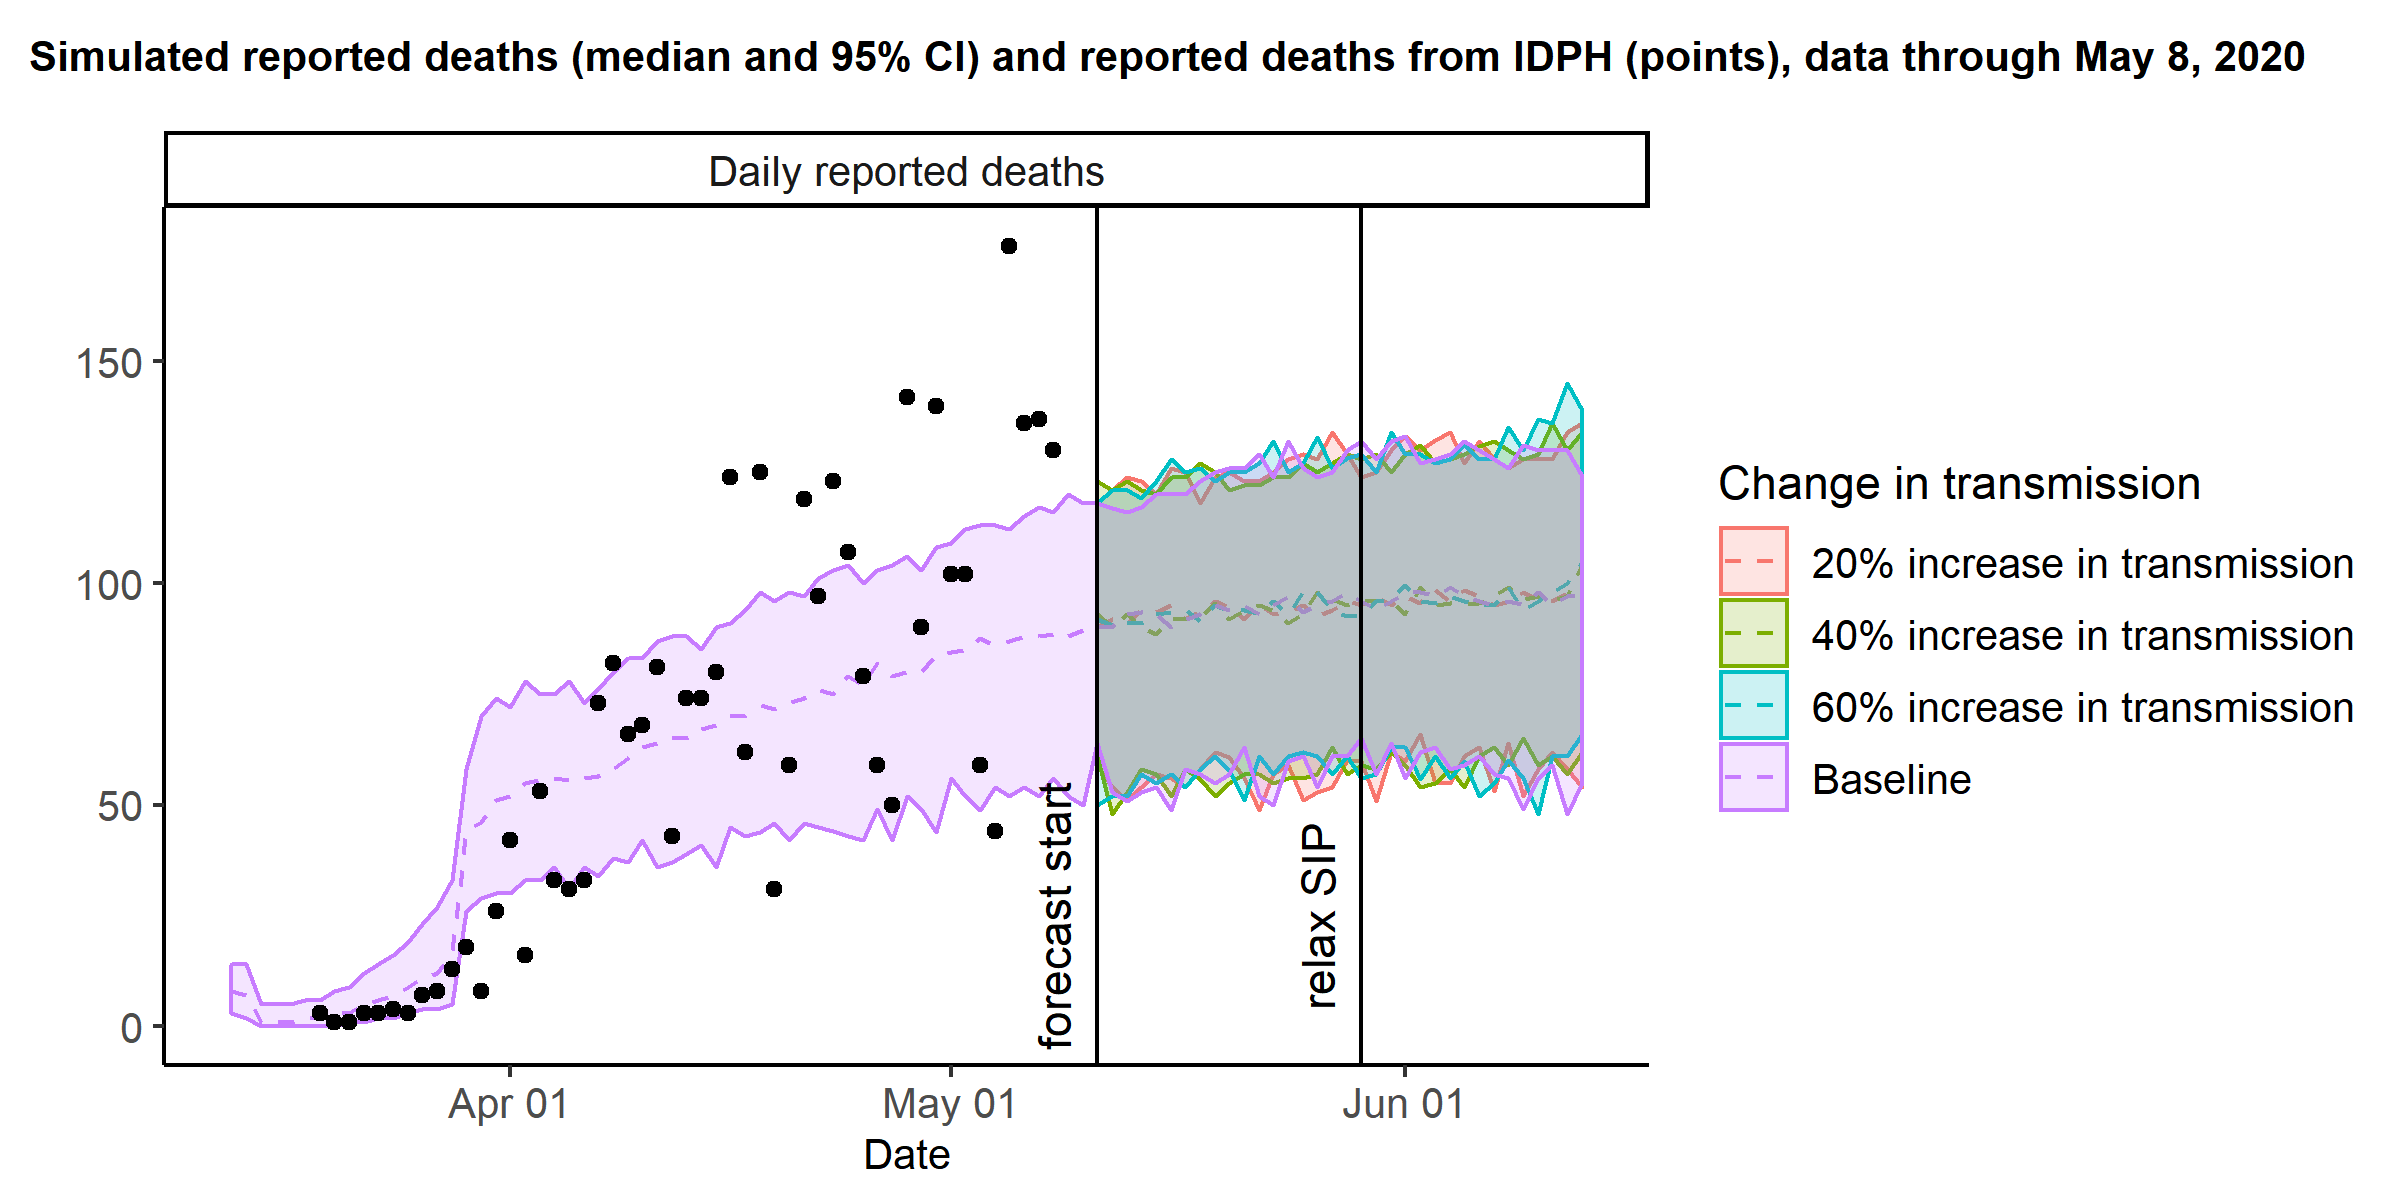
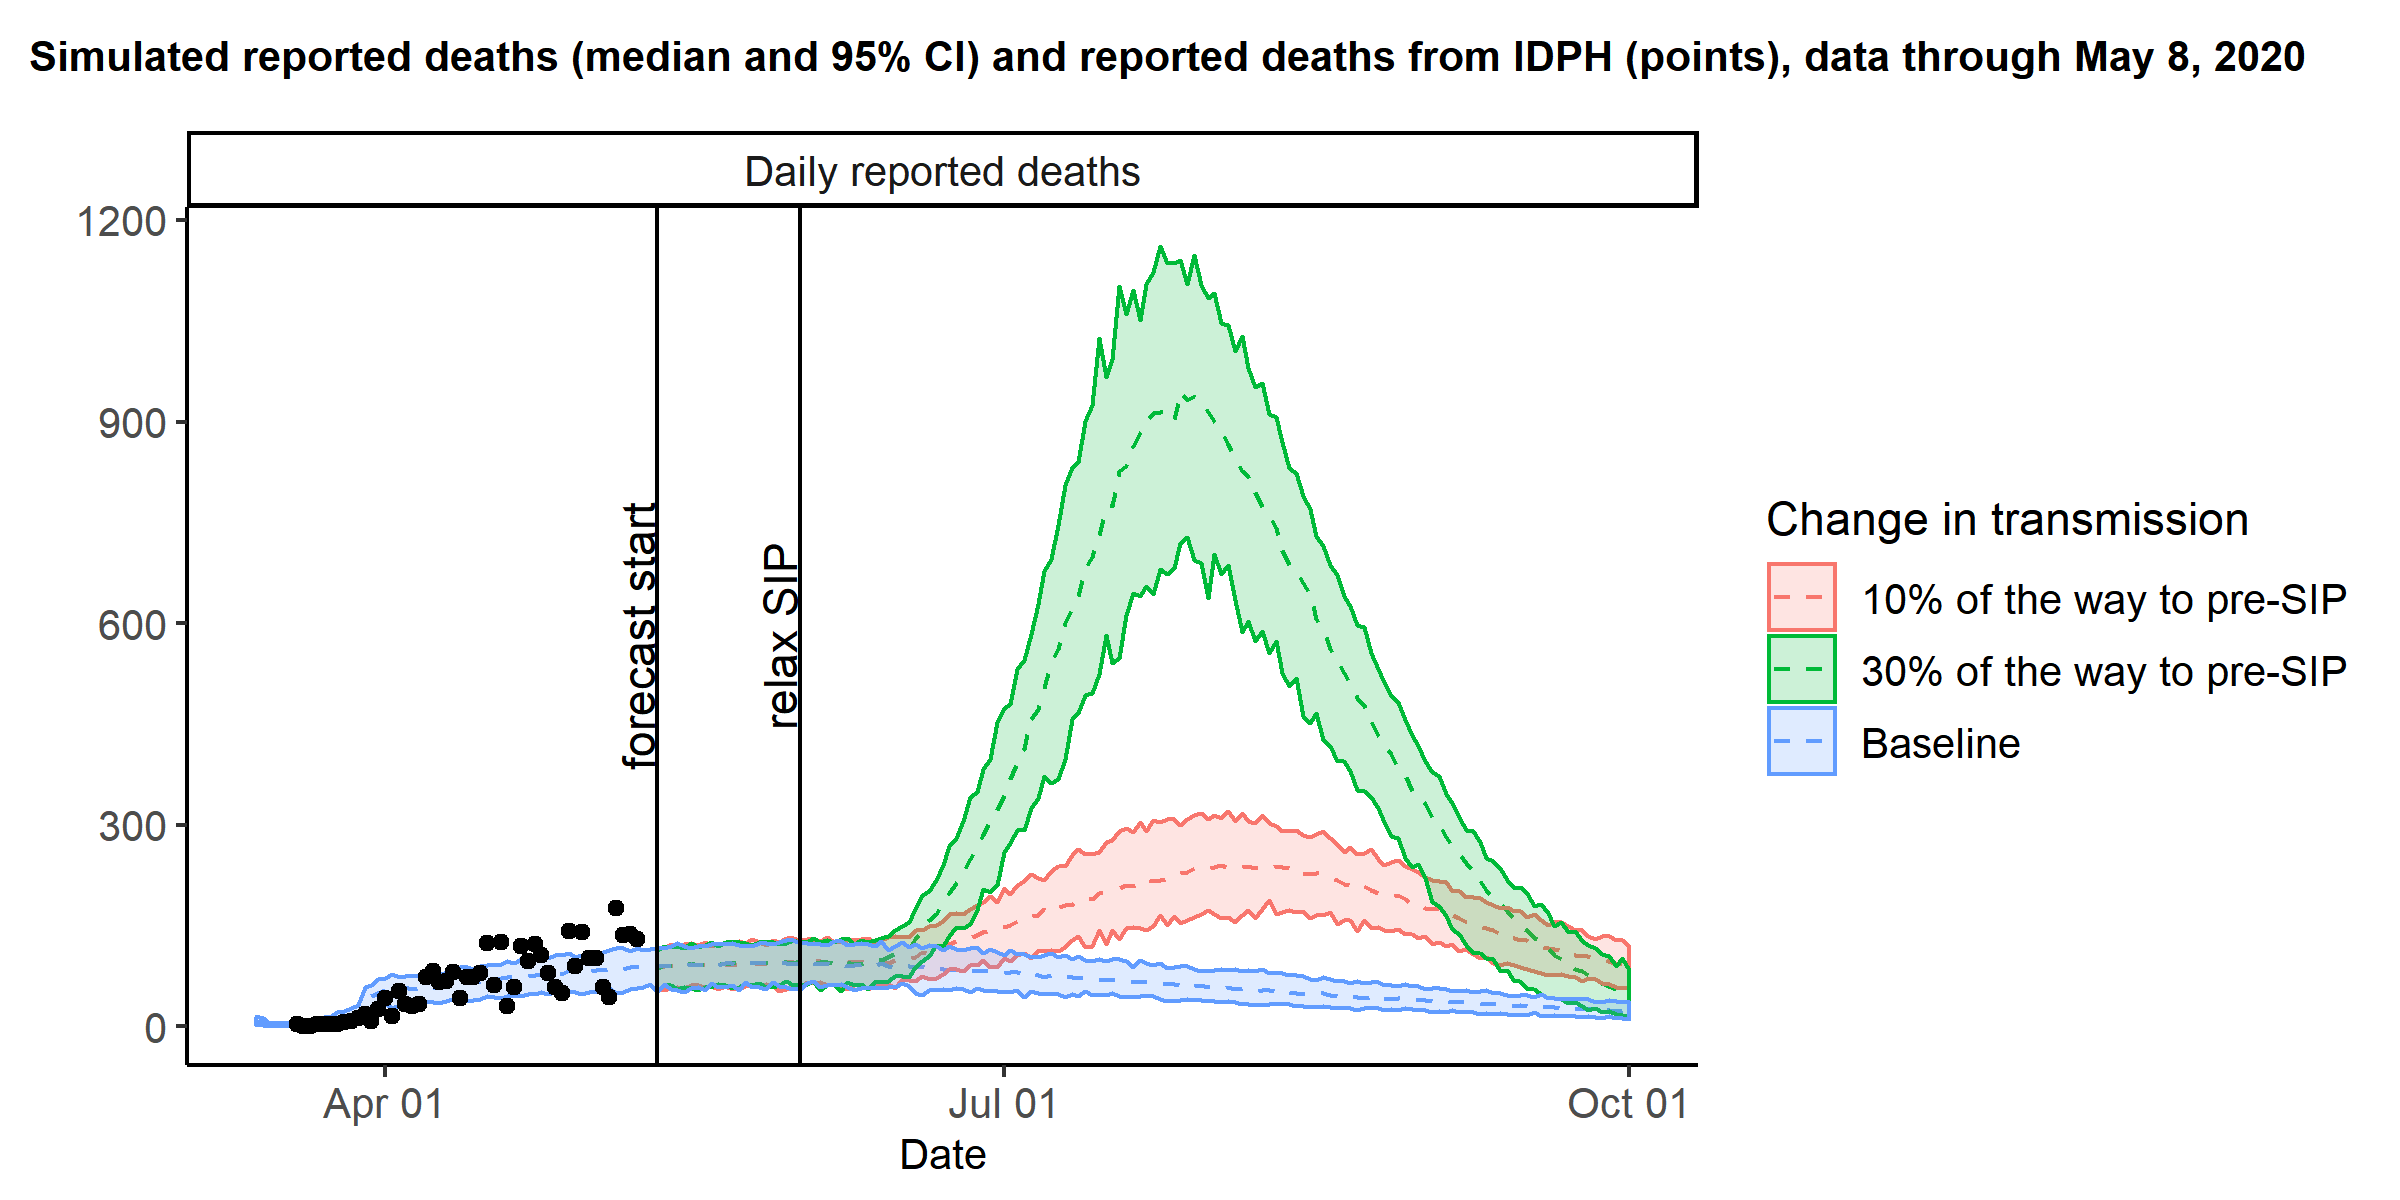
Updated with regional plots

diff --git a/Forecasting/README.md b/Forecasting/README.md
@@ -5,20 +5,60 @@ We implement SIP both by scaling contact rates and by scaling the transmission r
 We assume that a SIP order scales down non-home contacts (work contacts, school contacts, and other contacts). 
 On March 16, we scaled down school contacts to 0, work contacts to 0.6 times their normal value, and other contacts to 0.5 times their normal value. 
 We then inferred a separate post-SIP transmission rate.
-For the baseline model scenario, we maintain the inferred value of the post-SIP transmission rate indefinitely. We assume that this is the maximum reduction in transmission. At our current parameter estimates, this corresponds to a 78% reduction in pre-SIP transmission rate. To model the relaxing of SIP, we project three additional scenarios:
+For the baseline model scenario, we maintain the inferred value of the post-SIP transmission rate indefinitely. We assume that this is the maximum reduction in transmission. At our current parameter estimates, this corresponds to a 79% reduction in pre-SIP transmission rate. To model the relaxing of SIP, we project two additional scenarios, assuming that an increase in transmission happens on June 1, 2020:
 
-1. The post-SIP transmission rate increases by 20%. At our current parameter estimates, this corresopnds to a 74% reduction in pre-SIP transmission rate.
-2. The post-SIP transmission rate increases by 40%. At our current parameter estimates, this corresopnds to a 69% reduction in pre-SIP transmission.
-3. The post-SIP transmission rate increases by 60%. At our current estimates, this corresopnds to a 65% reduction in pre-SIP transmission.
+1. The post-SIP transmission rate increases 10% of the way back to pre-SIP transmission.
+2. The post-SIP transmission rate increases 30% of the way back to pre-SIP transmission.
 
-Figure 1 gives the projected incident infections, population prevalence, non-ICU hospital occupancy, and ICU occupancy through June 13, 2020 under the four model scenarios. 
+
+Figure 1 gives the projected statewide incident infections, population prevalence, non-ICU hospital occupancy, and ICU occupancy through October 1, 2020 under the four model scenarios. 
 
 ![Figure 1](./plots/summary_outputs.png)
 
-
-Figure 2 gives the projected daily reported hosptialized and non-hospitalized deaths through June 13, 2020, and reported daily deaths from the Illinois Department of Public Health (IDPH) under the four model scenarios. 
+Figure 2 gives the projected statewide daily reported hosptialized and non-hospitalized deaths through October 1, 2020, and reported daily deaths from the Illinois Department of Public Health (IDPH) under the four model scenarios. 
 
 ![Figure 2](./plots/death_summary_outputs.png) 
+
+## Region-specific forecasts: northeast
+
+Figure 3 gives the projected incident infections, population prevalence, non-ICU hospital occupancy, and ICU occupancy through October 1, 2020 in the northeast region under the four model scenarios. 
+
+![Figure 3](./plots/region_3_summary_1__4reg.outputs.png)
+
+Figure 4 gives the projected daily reported hosptialized and non-hospitalized deaths through October 1, 2020 in the northeast region under the four model scenarios. Regional death data from IDPH are shown as points.
+
+![Figure 4](./plots/region_3_death_summary_outputs.png) 
+
+## Region-specific forecasts: north-central
+
+Figure 5 gives the projected incident infections, population prevalence, non-ICU hospital occupancy, and ICU occupancy through October 1, 2020 in the north-central region under the four model scenarios. 
+
+![Figure 5](./plots/region_1_summary_1__4reg.outputs.png)
+
+Figure 6 gives the projected daily reported hosptialized and non-hospitalized deaths through October 1, 2020 in the north-central region under the four model scenarios. Regional death data from IDPH are shown as points.
+
+![Figure 6](./plots/region_1_death_summary_outputs.png) 
+
+## Region-specific forecasts: central
+
+Figure 7 gives the projected incident infections, population prevalence, non-ICU hospital occupancy, and ICU occupancy through October 1, 2020 in the central region under the four model scenarios. 
+
+![Figure 7](./plots/region_2_summary_1__4reg.outputs.png)
+
+Figure 8 gives the projected daily reported hosptialized and non-hospitalized deaths through October 1, 2020 in the central region under the four model scenarios. Regional death data from IDPH are shown as points.
+
+![Figure 8](./plots/region_2_death_summary_outputs.png) 
+
+## Region-specific forecasts: southern
+
+Figure 9 gives the projected incident infections, population prevalence, non-ICU hospital occupancy, and ICU occupancy through October 1, 2020 in the southern region under the four model scenarios. 
+
+![Figure 9](./plots/region_4_summary_1__4reg.outputs.png)
+
+Figure 10 gives the projected daily reported hosptialized and non-hospitalized deaths through October 1, 2020 in the southern region under the four model scenarios. Regional death data from IDPH are shown as points.
+
+![Figure 10](./plots/region_4_death_summary_outputs.png) 
+
 
 ## File descriptions
 
